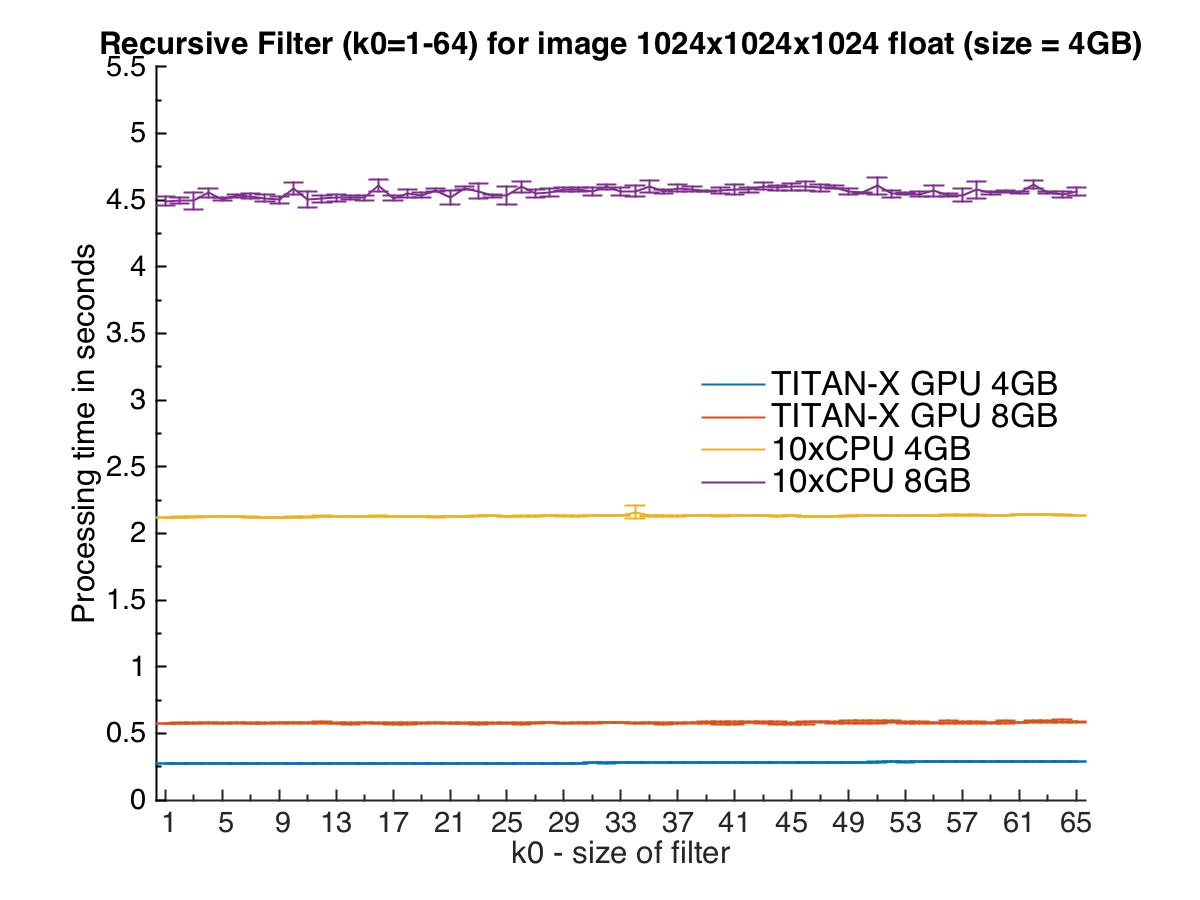
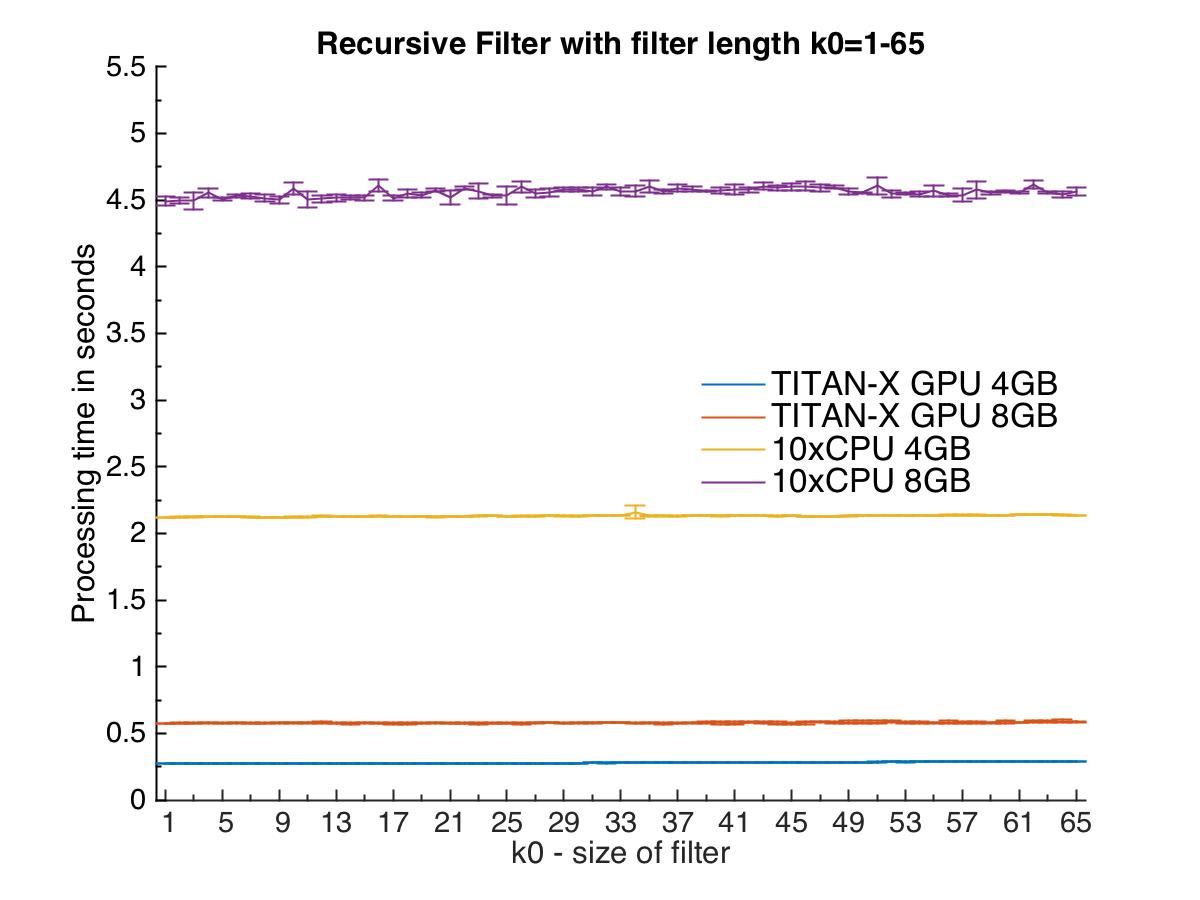
Added result for 8GB with varying k0

Changed region(s): [[0.0617, 0.0311, 0.9558, 0.0622]]

diff --git a/src/RecursiveBenchmark.m b/src/RecursiveBenchmark.m
@@ -110,9 +110,9 @@ ylabel('Processing time in seconds');
 print('recursiveCpuVsGpu.eps' ,'-depsc','-painters','-loose','-cmyk');
 print('recursiveCpuVsGpu.jpg' ,'-djpeg','-painters','-loose','-cmyk');
 
--------------------------------------------------------------------------
-Recursive Filter with varying K0 size (fixed img size) plot
--------------------------------------------------------------------------
+% -------------------------------------------------------------------------
+% Recursive Filter with varying K0 size (fixed img size) plot
+% -------------------------------------------------------------------------
 xx=figure(3);
 clf;
 hold on;
@@ -132,7 +132,7 @@ l = legend( { 'TITAN-X GPU 4GB',
 l.Location = 'east';
 l.Box = 'off';
 l.FontSize = 16;      
-title('Recursive Filter (k0=1-64) for image 1024x1024x1024 float (size = 4GB)')
+title('Recursive Filter with filter length k0=1-65')
 set(gcf, 'Position', [2500, 10, 1300, 1100])
 axis([-Inf Inf 0 5.5]);   
 xlabel('k0 - size of filter');
